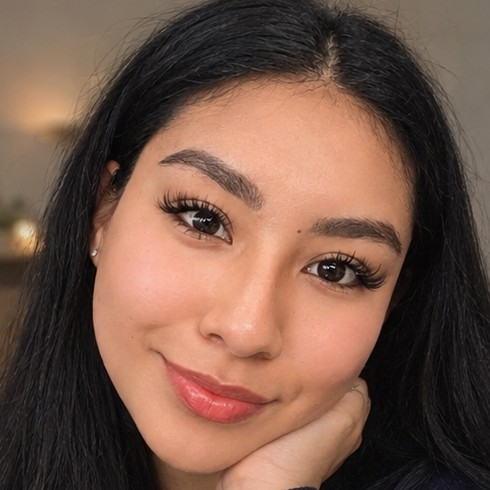
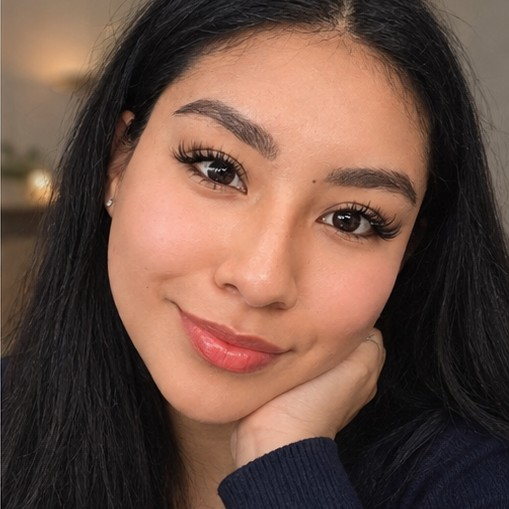
Foto de la tarjeta: sin tanto zoom, con la mano
Claude-Session: https://claude.ai/code/session_01Q93D8J2FQK7sETvvReMRsd

diff --git a/app/page.tsx b/app/page.tsx
@@ -191,7 +191,7 @@ export default function Home() {
 
       <section className="about">
         <div className="ph" style={{ overflow: "hidden" }}>
-          <Image src="/cecilia-sobre-mi.jpg" alt="" width={490} height={490} style={{ width: "100%", height: "100%", objectFit: "cover" }} />
+          <Image src="/cecilia-sobre-mi.jpg" alt="" width={509} height={509} style={{ width: "100%", height: "100%", objectFit: "cover" }} />
         </div>
         <div>
           <q>Nutrióloga. Trabajo con tus análisis de sangre para encontrar lo que te falta y corregirlo con tu alimentación.</q>
